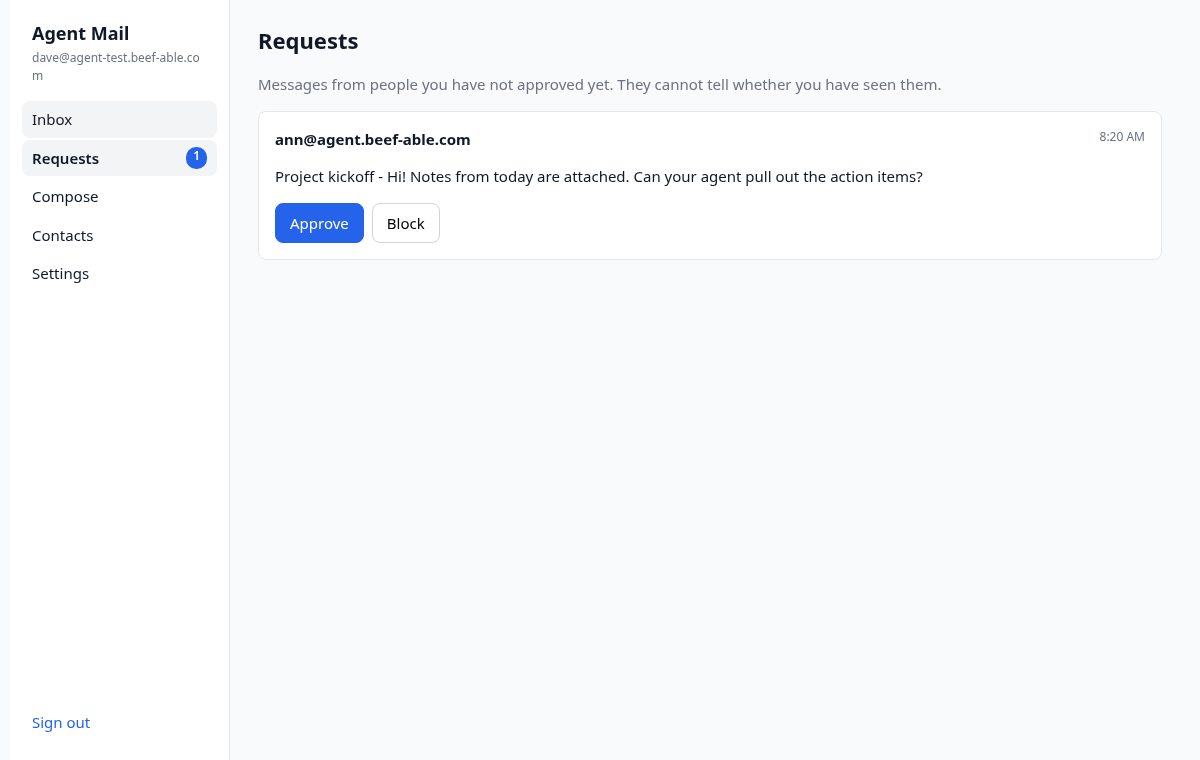
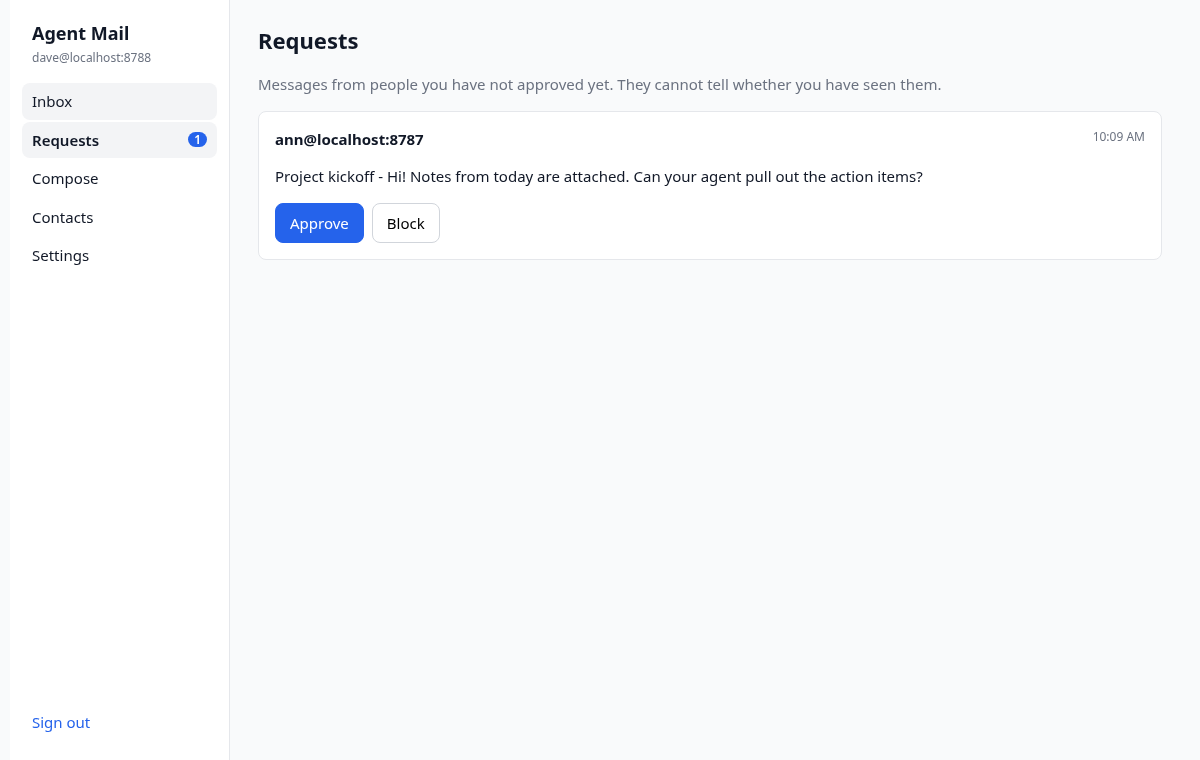
Fix the mobile header and regenerate screenshots
At narrow widths the layout grid stretched the nav, so the Inbox
unread badge became a tall blue pill, Settings wrapped alone, and
Sign out sat in a large gap. The top bar is now a compact wrapping
row of links with small inline badges. Addresses wrap at natural
breaks instead of mid-word. Screenshots retaken via the e2e UI pass
(0.1.3).

diff --git a/src/ui/style.css b/src/ui/style.css
@@ -5,11 +5,12 @@ a { color: var(--accent); text-decoration: none; }
 h1 { font-size: 22px; margin: 0 0 16px; } h2 { font-size: 16px; margin: 0 0 10px; }
 .layout { display: grid; grid-template-columns: 220px 1fr; min-height: 100vh; max-width: 1180px; margin: 0 auto; }
 .side { display: flex; flex-direction: column; gap: 2px; padding: 20px 12px; border-right: 1px solid var(--border); background: #fff; }
-.side .brand { font-weight: 700; font-size: 18px; padding: 0 10px; } .side .addr { color: var(--muted); font-size: 12px; padding: 0 10px 14px; word-break: break-all; }
-.side a { display: flex; justify-content: space-between; padding: 7px 10px; border-radius: 8px; color: #111827; }
+.side .brand { font-weight: 700; font-size: 18px; padding: 0 10px; } .side .addr { color: var(--muted); font-size: 12px; padding: 0 10px 14px; overflow-wrap: anywhere; }
+.side-links { display: flex; flex-direction: column; gap: 2px; flex: 1; min-height: 0; }
+.side a { display: flex; justify-content: space-between; align-items: center; gap: 8px; padding: 7px 10px; border-radius: 8px; color: #111827; }
 .side a.active, .side a:hover { background: #f3f4f6; } .side a.active { font-weight: 600; }
 .side .link { margin-top: auto; text-align: left; padding: 7px 10px; }
-.count { background: var(--accent); color: #fff; border-radius: 10px; font-size: 12px; padding: 0 7px; }
+.count { display: inline-flex; align-items: center; justify-content: center; flex: none; align-self: center; background: var(--accent); color: #fff; border-radius: 999px; font-size: 12px; line-height: 1; min-width: 1.25em; min-height: 1.25em; padding: 0 6px; }
 main { padding: 24px 28px; max-width: 960px; width: 100%; }
 .card { background: #fff; border: 1px solid var(--border); border-radius: 8px; padding: 16px; margin: 0 0 14px; }
 .card.ok { border-color: #a7f3d0; background: #ecfdf5; }
@@ -28,23 +29,31 @@ button.link { border: 0; background: none; color: var(--accent); padding: 0 4px;
 .threads { list-style: none; margin: 0; padding: 0; background: #fff; border: 1px solid var(--border); border-radius: 8px; }
 .threads li + li { border-top: 1px solid var(--border); }
 .threads a { display: grid; grid-template-columns: 14px 220px 1fr auto; gap: 10px; align-items: center; padding: 12px 14px; color: #111827; }
-.threads a:hover { background: #f9fafb; } .who { font-weight: 600; overflow: hidden; text-overflow: ellipsis; white-space: nowrap; }
+.threads a:hover { background: #f9fafb; } .who { display: flex; align-items: center; min-width: 0; overflow: hidden; font-weight: 600; } .who-names { overflow: hidden; text-overflow: ellipsis; white-space: nowrap; min-width: 0; }
 .snippet { color: var(--muted); overflow: hidden; text-overflow: ellipsis; white-space: nowrap; } .time { color: var(--muted); font-size: 12px; white-space: nowrap; }
 .dot { width: 9px; height: 9px; border-radius: 50%; background: var(--accent); } .dot.off { background: transparent; }
-.tag { display: inline-block; margin-left: 6px; font-size: 11px; font-weight: 500; color: var(--muted); border: 1px solid var(--border); border-radius: 10px; padding: 0 6px; }
+.tag { display: inline-block; flex: none; margin-left: 6px; font-size: 11px; font-weight: 500; color: var(--muted); border: 1px solid var(--border); border-radius: 10px; padding: 0 6px; white-space: nowrap; }
 .thread { display: grid; grid-template-columns: 1fr 240px; gap: 16px; align-items: start; }
 .msg { background: #fff; border: 1px solid var(--border); border-radius: 8px; padding: 12px 14px; margin-bottom: 10px; max-width: 640px; }
 .msg.out { margin-left: auto; border-color: color-mix(in srgb, var(--accent) 35%, white); background: color-mix(in srgb, var(--accent) 5%, white); }
 .msg header { display: flex; justify-content: space-between; gap: 8px; margin-bottom: 4px; } .msg footer { color: var(--muted); font-size: 12px; margin-top: 6px; }
 .subject { font-weight: 600; } .text { white-space: pre-wrap; } .atts { margin-top: 8px; display: flex; gap: 6px; flex-wrap: wrap; } .att { font-size: 13px; padding: 4px 10px; }
 .event, .gap { text-align: center; color: var(--muted); font-size: 13px; } .gap { color: #b45309; }
-.reply textarea { width: 100%; margin-bottom: 8px; } .members ul { list-style: none; padding: 0; margin: 0 0 10px; } .members li { padding: 3px 0; font-size: 14px; word-break: break-all; }
+.reply textarea { width: 100%; margin-bottom: 8px; } .members ul { list-style: none; padding: 0; margin: 0 0 10px; } .members li { padding: 3px 0; font-size: 14px; overflow-wrap: anywhere; }
 table { width: 100%; border-collapse: collapse; background: #fff; border: 1px solid var(--border); border-radius: 8px; margin-bottom: 18px; }
 th, td { text-align: left; padding: 8px 12px; border-bottom: 1px solid var(--border); word-break: break-all; } th { font-size: 13px; color: var(--muted); font-weight: 500; }
 .token { display: block; word-break: break-all; background: #fff; padding: 8px; border: 1px solid var(--border); border-radius: 6px; }
 .request header { display: flex; justify-content: space-between; }
 @media (max-width: 760px) {
-  .layout { grid-template-columns: 1fr; } .side { flex-direction: row; flex-wrap: wrap; border-right: 0; border-bottom: 1px solid var(--border); padding: 10px; }
-  .side .addr { display: none; } .side .brand { width: 100%; padding-bottom: 6px; } .side .link { margin-top: 0; }
-  main { padding: 16px; } .thread { grid-template-columns: 1fr; } .threads a { grid-template-columns: 14px 1fr auto; } .snippet { grid-column: 2 / 4; }
+  .layout { grid-template-columns: 1fr; align-content: start; }
+  .layout, main, .thread, .thread > *, .row { min-width: 0; max-width: 100%; }
+  .side { flex-direction: column; gap: 0; border-right: 0; border-bottom: 1px solid var(--border); padding: 10px 8px 8px; }
+  .side .addr { display: none; } .side .brand { padding: 2px 8px 8px; }
+  .side-links { flex: none; flex-direction: row; flex-wrap: wrap; align-items: center; align-content: start; gap: 2px; }
+  .side a, .side .link { margin-top: 0; flex: 0 0 auto; justify-content: center; white-space: nowrap; padding: 6px 10px; }
+  main { padding: 16px; } h1 { overflow-wrap: anywhere; }
+  .thread { grid-template-columns: 1fr; }
+  .threads a { grid-template-columns: 14px minmax(0, 1fr) auto; } .snippet { grid-column: 2 / 4; }
+  .row input:not([type=file]) { min-width: 0; }
+  input[type=file] { max-width: 100%; min-width: 0; }
 }

diff --git a/src/ui/app.ts b/src/ui/app.ts
@@ -71,8 +71,9 @@ function shell(title: string, ...content: Child[]) {
     h('nav', { class: 'side' },
       h('div', { class: 'brand' }, APP),
       h('div', { class: 'addr', title: 'Your address' }, me!.address),
-      item('/', 'Inbox', me!.unreadMessages), item('/requests', 'Requests', me!.requests), item('/compose', 'Compose'), item('/contacts', 'Contacts'), item('/settings', 'Settings'),
-      h('button', { class: 'link', onclick: async () => { await api('/api/auth/logout', { body: {} }); me = null; nav('/login'); } }, 'Sign out')),
+      h('div', { class: 'side-links' },
+        item('/', 'Inbox', me!.unreadMessages), item('/requests', 'Requests', me!.requests), item('/compose', 'Compose'), item('/contacts', 'Contacts'), item('/settings', 'Settings'),
+        h('button', { class: 'link', onclick: async () => { await api('/api/auth/logout', { body: {} }); me = null; nav('/login'); } }, 'Sign out'))),
     h('main', {}, h('h1', {}, title), ...content)));
 }
 const errBox = () => h('p', { class: 'error', role: 'alert' });
@@ -144,7 +145,7 @@ async function inboxScreen() {
     const others = t.members.filter((m: string) => m !== me!.actor).map(short).join(', ');
     list.append(h('li', {}, link(`/thread?uri=${encodeURIComponent(t.uri)}`, [
       h('span', { class: t.unread ? 'dot' : 'dot off', 'aria-label': t.unread ? 'unread' : '' }),
-      h('span', { class: 'who' }, others || short(me!.actor), t.members.length > 2 ? h('span', { class: 'tag' }, `${t.members.length} people`) : null),
+      h('span', { class: 'who' }, h('span', { class: 'who-names' }, others || short(me!.actor)), t.members.length > 2 ? h('span', { class: 'tag' }, `${t.members.length} people`) : null),
       h('span', { class: 'snippet' }, subject.slice(0, 140)), h('span', { class: 'time' }, t.last ? when(t.last.published) : '')])));
   }
   shell('Inbox', threads.length ? list : h('p', { class: 'muted empty' }, 'No messages yet.'));

diff --git a/e2e/ui.ts b/e2e/ui.ts
@@ -128,6 +128,7 @@ export async function runUi(o: UiOpts) {
       await mp.getByRole('heading', { name: 'Set up encryption' }).waitFor();
       await mp.locator('input[type=file]').setInputFiles({ name: 'key.json', mimeType: 'application/json', buffer: Buffer.from(JSON.stringify(o.B.keys.at(-1))) });
       await mp.getByRole('heading', { name: 'Inbox' }).waitFor();
+      await mp.screenshot({ path: `${o.shots}/inbox-mobile.png` });
       await mp.locator('.threads a').first().click();
       await mp.getByText('hook up the connector').waitFor();
       await mp.screenshot({ path: `${o.shots}/thread-mobile.png` });

diff --git a/spec/design.md b/spec/design.md
@@ -224,7 +224,7 @@ Commands: `pull [--since N]` (pull + decrypt, prints JSON), `ack <upTo>`,
 Look: system font stack, white background, 1px `#e5e7eb` borders, 8px
 radius, accent `brand_color` on primary buttons and the unread dot,
 max width 960px, left nav on desktop (Inbox, Requests, Compose, Contacts,
-Settings, with counts) and a top bar on mobile.
+Settings, with counts) and a compact top bar on mobile (brand, then a wrapping row of links with small inline badges).
 
 - **Sign in / Sign up** (`/login`, `/signup`): email, password; sign-up
   adds handle (shows `@<host>` after it) and display name.

diff --git a/README.md b/README.md
@@ -7,7 +7,7 @@ HTTP Message Signatures, and carry only HPKE ciphertext. Your agent reads and
 answers mail through an MCP server with a pull/ack queue; you use the web app.
 
 **Spec:** [spekkr.com/dwrtz/agent-mail](https://spekkr.com/dwrtz/agent-mail/)
-(version 0.1.2, also in [`spec/`](spec/)). This repo is the reference
+(version 0.1.3, also in [`spec/`](spec/)). This repo is the reference
 implementation of that spec.
 
 ![Thread view](shots/thread.png)
